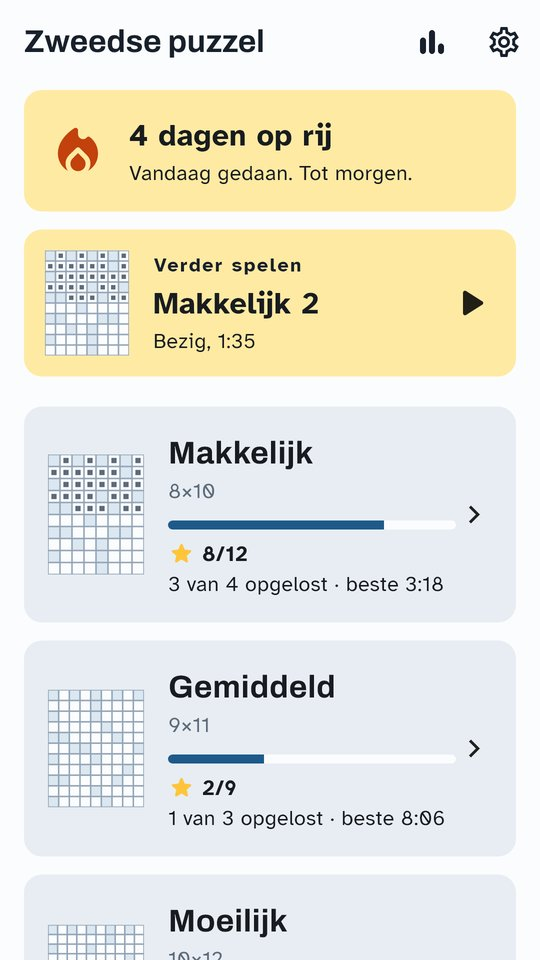
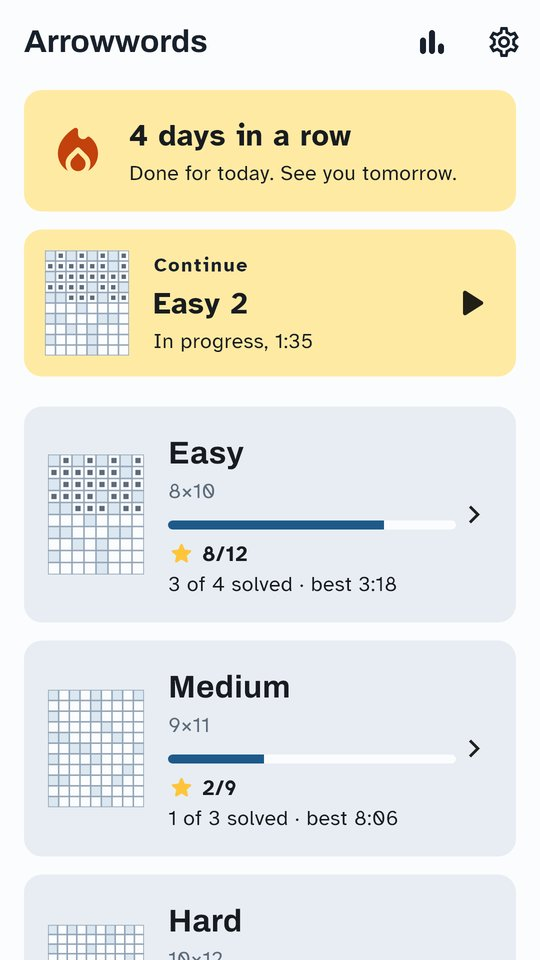
Arrowwords page in English, with the English screenshots

diff --git a/arrowwords/index.html b/arrowwords/index.html
@@ -1,15 +1,15 @@
 <!doctype html>
-<html lang="nl">
+<html lang="en">
   <head>
     <meta charset="utf-8" />
     <meta name="viewport" content="width=device-width, initial-scale=1" />
-    <title>Zweedse puzzel: Nederlandse zweedse puzzels voor Android</title>
-    <meta name="description" content="Zweedse puzzels zoals in het puzzelboekje, met de omschrijving in het vakje. Gemaakt in het Nederlands, niet vertaald. Drie niveaus, een eigen toetsenbord en ook offline te spelen." />
+    <title>Arrowwords: Arrowword Puzzles for Android</title>
+    <meta name="description" content="Arrowword puzzles like the ones in a puzzle magazine, with the clues inside the grid. Written in the language itself, not translated. Three levels, a built-in keyboard, and it plays offline." />
     <link rel="canonical" href="https://driftsparklabs.github.io/arrowwords/" />
 
     <meta property="og:type" content="website" />
-    <meta property="og:title" content="Zweedse puzzel: de omschrijving staat in het vakje" />
-    <meta property="og:description" content="Nederlandse zweedse puzzels voor Android. Drie niveaus, een groot leesbare omschrijving boven het toetsenbord, en ook offline te spelen." />
+    <meta property="og:title" content="Arrowwords: the clue sits inside the grid" />
+    <meta property="og:description" content="Arrowword puzzles for Android. Three levels, the clue shown large above the keyboard, and it plays offline." />
     <meta property="og:url" content="https://driftsparklabs.github.io/arrowwords/" />
     <meta property="og:image" content="https://driftsparklabs.github.io/arrowwords/img/play-light.jpg" />
 
@@ -17,12 +17,10 @@
     {
       "@context": "https://schema.org",
       "@type": "SoftwareApplication",
-      "name": "Zweedse puzzel",
-      "alternateName": "Arrowwords",
+      "name": "Arrowwords",
       "operatingSystem": "ANDROID",
       "applicationCategory": "GameApplication",
-      "inLanguage": "nl",
-      "description": "Zweedse puzzels met de omschrijving in het vakje, gemaakt in het Nederlands. Drie niveaus, een eigen toetsenbord, hulp met hints, en alle puzzels in de app.",
+      "description": "Arrowword puzzles with the clues inside the grid, written in the language itself. Three levels, a built-in keyboard, help with hints, and every puzzle inside the app.",
       "url": "https://driftsparklabs.github.io/arrowwords/",
       "author": { "@type": "Organization", "name": "Driftspark Labs", "url": "https://driftsparklabs.github.io/" },
       "offers": { "@type": "Offer", "price": "0", "priceCurrency": "EUR" }
@@ -133,72 +131,72 @@
   </head>
   <body>
     <main class="wrap">
-      <p class="crumb"><a href="../">Driftspark Labs</a> / Zweedse puzzel</p>
+      <p class="crumb"><a href="../">Driftspark Labs</a> / Arrowwords</p>
 
       <header class="hero">
         <div class="hero-copy">
-          <h1>De zweedse puzzel uit het boekje, op je telefoon</h1>
+          <h1>The arrowword from the puzzle magazine, on your phone</h1>
           <p class="pitch">
-            De omschrijving staat in het vakje en de pijl wijst waar het woord
-            begint. Alle puzzels zijn in het Nederlands gemaakt, niet vertaald,
-            en ze zitten allemaal in de app.
+            The clue sits in a cell of the grid and an arrow shows where the
+            answer goes. The puzzles are written in the language itself, not
+            translated, and every one of them is inside the app. The first
+            puzzles are in Dutch; more languages will follow.
           </p>
-          <span class="soon">Binnenkort op Google Play</span>
-          <p class="store-note">Gratis · Ook offline · Geen account · Geen abonnement</p>
+          <span class="soon">Coming soon to Google Play</span>
+          <p class="store-note">Free · Plays offline · No account · No subscription</p>
         </div>
 
         <img class="phone" src="img/play-light.jpg" width="540" height="960"
-             alt="Een zweedse puzzel tijdens het spelen: het rooster met omschrijvingen in de vakjes, daaronder knoppen voor een letter, een woord en controleren, en het toetsenbord" />
+             alt="An arrowword in progress: the grid with clues inside the cells, buttons to reveal a letter, reveal a word or check, and the keyboard below" />
       </header>
 
-      <h2>Fijn om te spelen</h2>
+      <h2>Easy to play</h2>
       <ul class="features">
-        <li><b>Groot leesbaar</b><p>De omschrijving van het gekozen woord staat groot boven het toetsenbord, dus je hoeft de kleine vakjes niet te lezen. Vergroot het rooster als je dat prettiger vindt.</p></li>
-        <li><b>Drie niveaus</b><p>Makkelijk, gemiddeld en moeilijk. De moeilijkere puzzels hebben een groter rooster.</p></li>
-        <li><b>Een eigen toetsenbord</b><p>Geen automatische correctie die in de weg zit. Tik twee keer op een vakje om van richting te wisselen.</p></li>
-        <li><b>Hulp als je vastzit</b><p>Onthul een letter of een woord, of laat controleren wat je hebt ingevuld. Dat kost hints. Je krijgt elke dag gratis hints bij.</p></li>
-        <li><b>Geen reclame tijdens het puzzelen</b><p>Nooit reclame terwijl je een puzzel oplost. Koop eenmalig Onbeperkt en je ziet nergens meer reclame, met onbeperkte hints. Geen abonnement.</p></li>
-        <li><b>Speel waar je wilt</b><p>Alle puzzels zitten in de app. Je hebt geen internet en geen account nodig.</p></li>
+        <li><b>Easy to read</b><p>The clue for the selected word is shown large above the keyboard, so you never have to read the small cells. Zoom the grid if that reads better.</p></li>
+        <li><b>Three levels</b><p>Easy, medium and hard. Harder puzzles have a bigger grid.</p></li>
+        <li><b>A built-in keyboard</b><p>No autocorrect getting in the way. Tap a cell twice to switch direction.</p></li>
+        <li><b>Help when you are stuck</b><p>Reveal a letter or a word, or check what you have filled in. That costs hints. You get free hints every day, and a short video earns you more.</p></li>
+        <li><b>No ads while you solve</b><p>There are never ads while you are solving a puzzle. Buy Unlimited once for no ads at all and unlimited hints. No subscription.</p></li>
+        <li><b>Play anywhere</b><p>All puzzles are inside the app. No internet and no account needed.</p></li>
       </ul>
 
-      <h2>Zo ziet het eruit</h2>
+      <h2>See it in action</h2>
       <ul class="shots">
         <li><figure>
           <img class="phone" loading="lazy" src="img/home-light.jpg" width="540" height="960"
-               alt="Het startscherm met de reeks dagen op rij, verder spelen, en de niveaus makkelijk, gemiddeld en moeilijk met sterren en beste tijden" />
-          <figcaption>Je reeks, je niveaus, je sterren</figcaption>
+               alt="Home screen with the streak of days in a row, a continue card, and the easy, medium and hard levels with stars and best times" />
+          <figcaption>Your streak, your levels, your stars</figcaption>
         </figure></li>
         <li><figure>
           <img class="phone" loading="lazy" src="img/results-light.jpg" width="540" height="960"
-               alt="Het scherm na een opgeloste puzzel: de tijd, drie sterren, het aantal fouten en de gebruikte hulp" />
-          <figcaption>Sterren voor elke puzzel</figcaption>
+               alt="The screen after a solved puzzle: the time, three stars, the number of mistakes and the help used" />
+          <figcaption>Stars for every puzzle</figcaption>
         </figure></li>
         <li><figure>
           <img class="phone" loading="lazy" src="img/play-dark.jpg" width="540" height="960"
-               alt="Dezelfde puzzel in het donkere thema" />
-          <figcaption>Licht of donker, vier kleuren voor het rooster</figcaption>
+               alt="The same puzzle in the dark theme" />
+          <figcaption>Light or dark, four grid colors</figcaption>
         </figure></li>
       </ul>
 
-      <h2>Houd bij hoe het gaat</h2>
+      <h2>See how you are doing</h2>
       <p>
-        Sterren per puzzel, je beste en gemiddelde tijd per niveau en je reeks
-        van dagen achter elkaar. Alles blijft op je eigen telefoon.
+        Stars for every puzzle, your best and average time per level, and your
+        streak of days in a row. It all stays on your own phone.
       </p>
 
       <div class="cta">
-        <h2 style="margin-top:0">Een puzzel bij de koffie</h2>
-        <p>De app komt binnenkort op Google Play. Vragen of ideeën? Mail ons gerust.</p>
+        <h2 style="margin-top:0">A puzzle with your coffee</h2>
+        <p>The app is coming soon to Google Play. Questions or ideas? We would like to hear them.</p>
         <a href="mailto:driftspark.labs.app@gmail.com">driftspark.labs.app@gmail.com</a>
       </div>
 
       <footer>
         <p>
           &copy; Driftspark Labs ·
-          <a href="mailto:driftspark.labs.app@gmail.com">Support en feedback</a> ·
-          <a href="https://driftsparklabs.github.io/driftspark-legal/arrowwords-privacy.html">Privacybeleid</a>
+          <a href="mailto:driftspark.labs.app@gmail.com">Support &amp; feedback</a> ·
+          <a href="https://driftsparklabs.github.io/driftspark-legal/arrowwords-privacy.html">Privacy policy</a>
         </p>
-        <p>In English: an arrowword puzzle app for Android. The puzzles are in Dutch for now; more languages will follow.</p>
       </footer>
     </main>
   </body>

diff --git a/index.html b/index.html
@@ -4,7 +4,7 @@
     <meta charset="utf-8" />
     <meta name="viewport" content="width=device-width, initial-scale=1" />
     <title>Driftspark Labs</title>
-    <meta name="description" content="Driftspark Labs builds focused mobile apps for Android: Chess Coach: Openings, an opening trainer, and Chess Coach: Puzzles, an offline tactics trainer, and Zweedse puzzel, an arrowword puzzle app." />
+    <meta name="description" content="Driftspark Labs builds focused mobile apps for Android: Chess Coach: Openings, an opening trainer, and Chess Coach: Puzzles, an offline tactics trainer, and Arrowwords, an arrowword puzzle app." />
     <style>
       :root { color-scheme: light dark; }
       * { box-sizing: border-box; }
@@ -62,8 +62,8 @@
       </div>
 
       <div class="app">
-        <h3><a href="arrowwords/">Zweedse puzzel (Arrowwords)</a></h3>
-        <p>Arrowword puzzles for Android with the clues inside the grid, written in the language itself. Dutch first, coming soon to Google Play.</p>
+        <h3><a href="arrowwords/">Arrowwords</a></h3>
+        <p>Arrowword puzzles for Android with the clues inside the grid, written in the language itself. Dutch puzzles first, coming soon to Google Play.</p>
         <a href="arrowwords/">Learn more &rarr;</a>
       </div>
 
